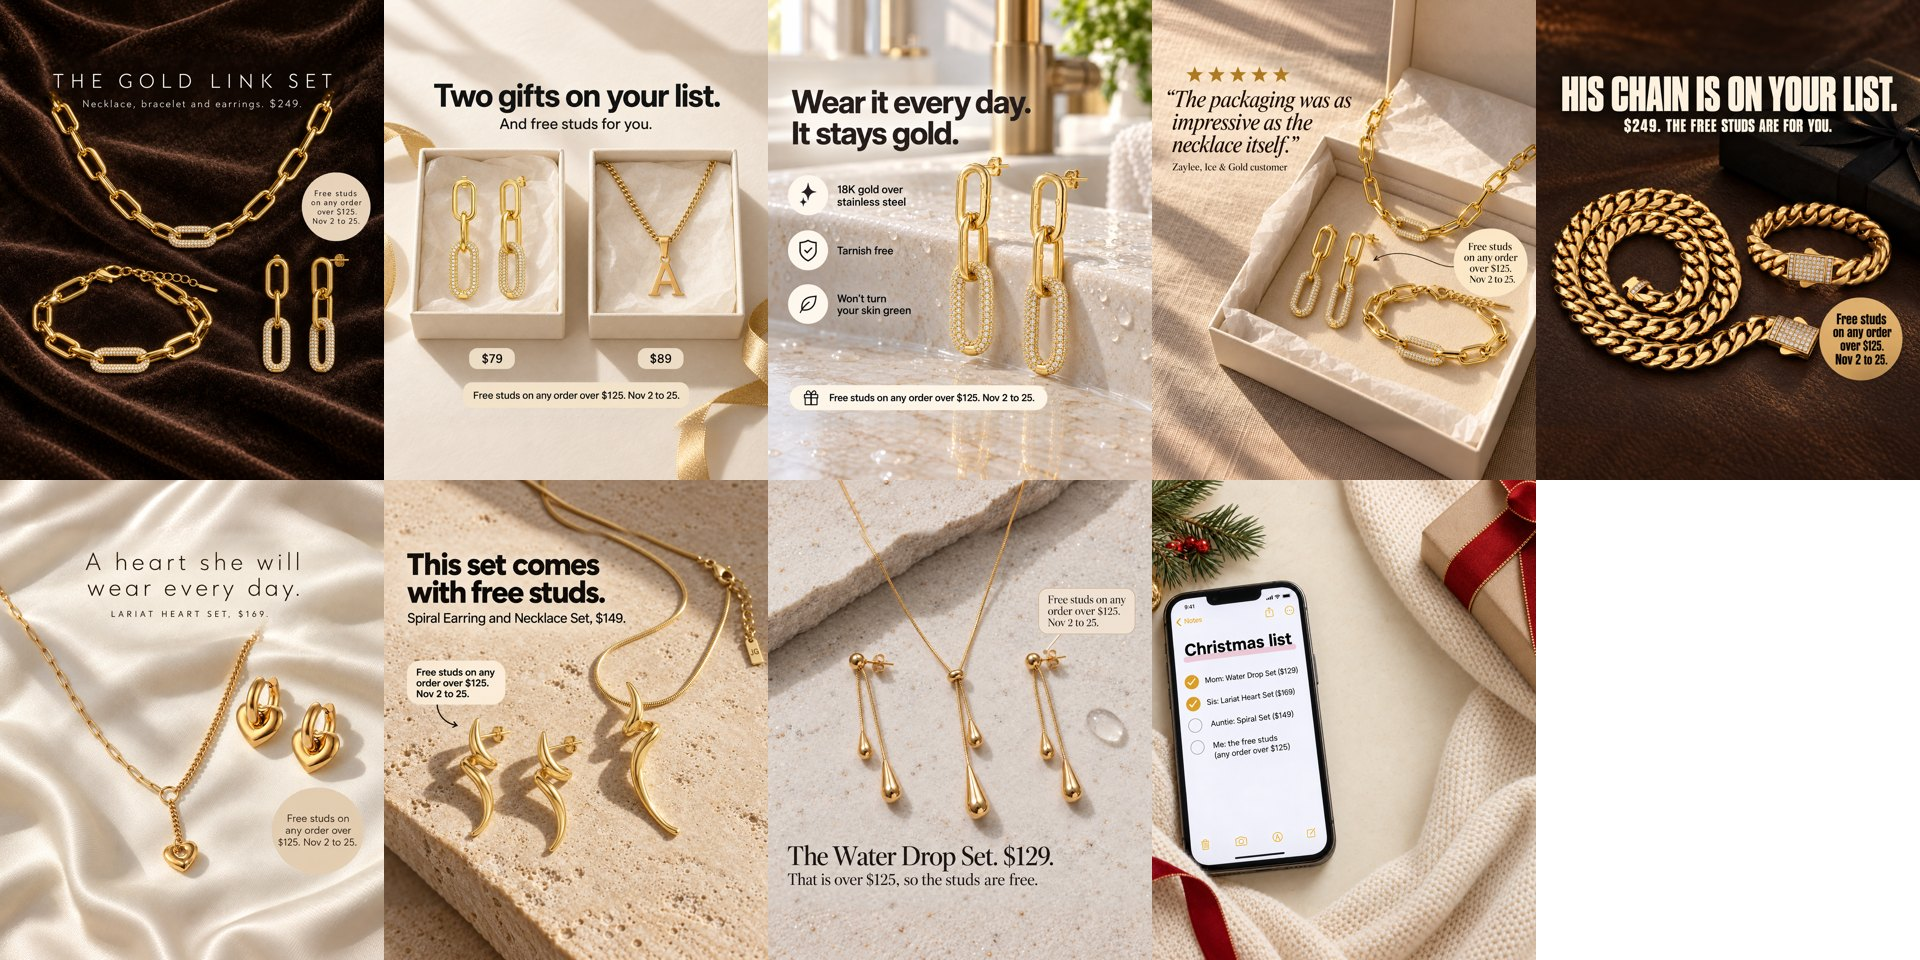
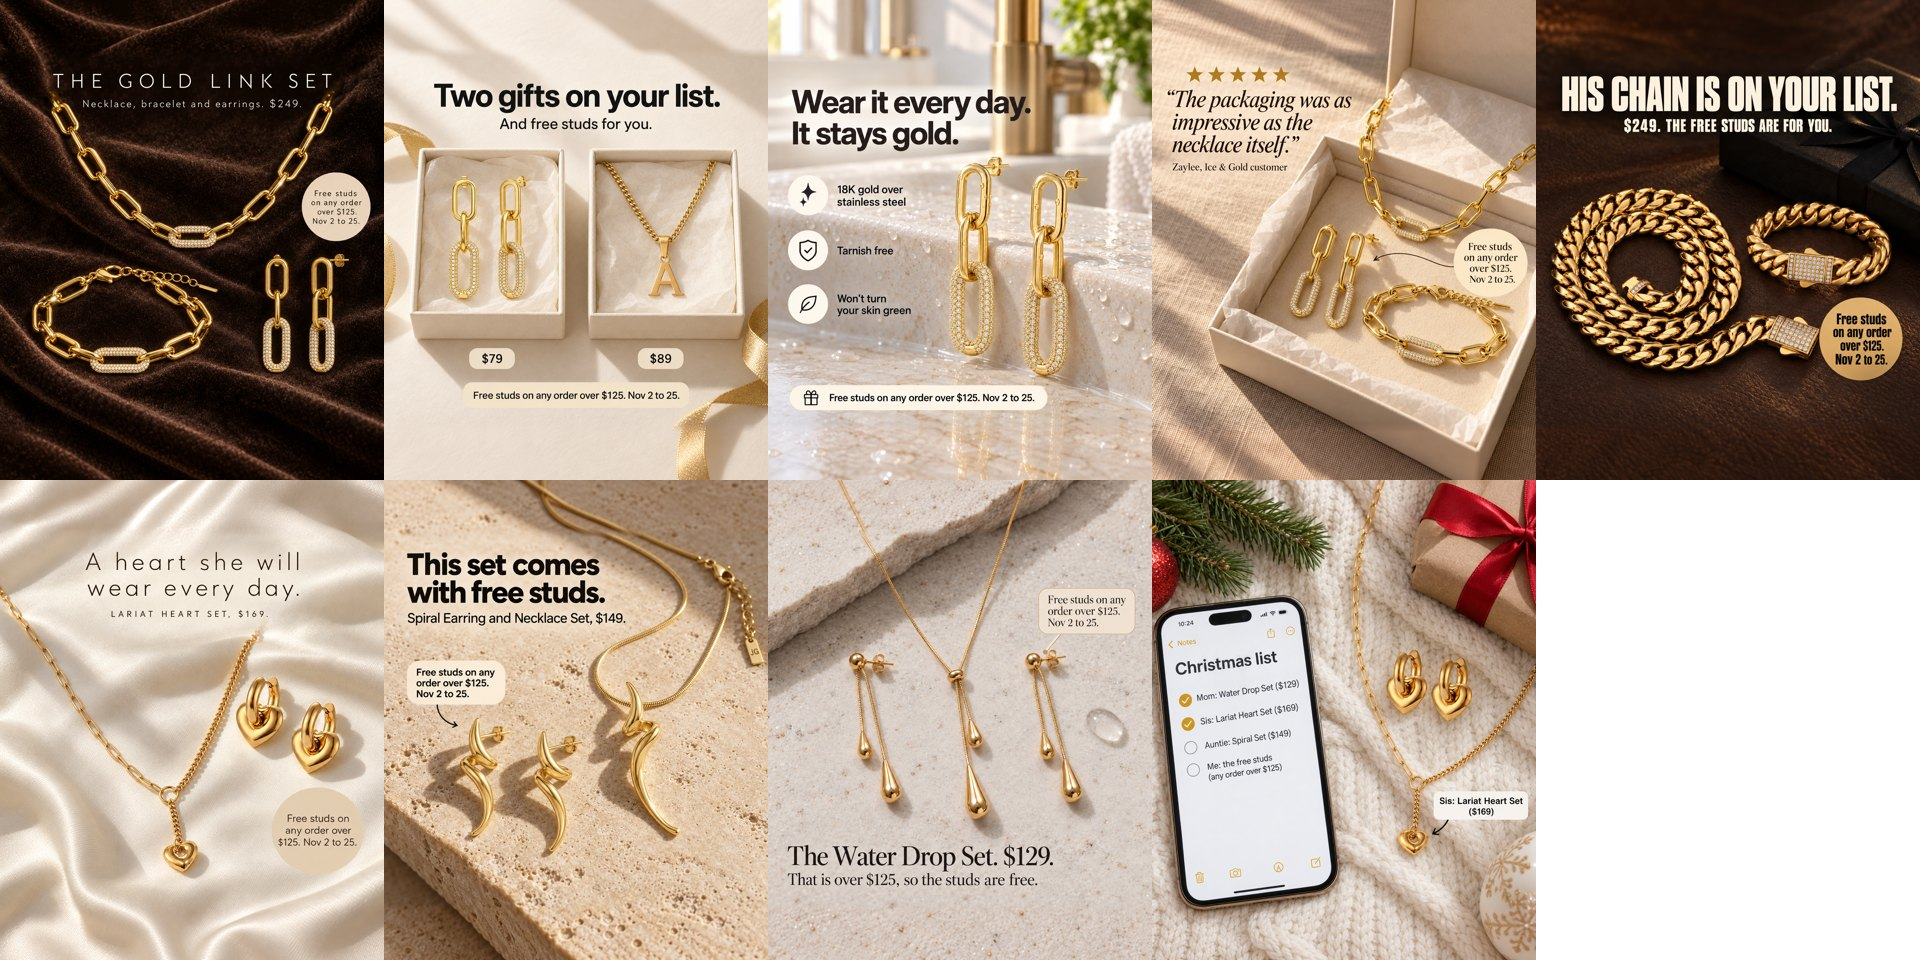
Ice & Gold Early Bird: iPhone ad redone with the real Lariat set; ads in Frame + Asana updated

Changed region(s): [[0.5938, 0.5, 0.8125, 1.0]]

diff --git a/docs/bfcm-ice-and-gold-concepts.md b/docs/bfcm-ice-and-gold-concepts.md
@@ -25,7 +25,7 @@ Locus Studio, all approved: "Early Bird AI: Gold Link, letters, Cuban" (0c9c72bb
 AI: Lariat, Spiral, Water Drop" (8fe8b9ef9eb72d71442d4ac1, 4 ads). Real Shopify photos as references + product
 fingerprints; Studio scored 9 to 10 of 10 on every product; checked by eye against the real pieces; two fixes with
 Change with AI (Cuban offer badge into the centre square; wrong jewelry removed from the Notes ad). About $3.80.
-Preview: docs/bfcm-ice-and-gold/ads/out/_sheet_ai.jpg. The earlier real-photo batch is archived. No list-building ads
+Preview: docs/bfcm-ice-and-gold/ads/out/_sheet_ai.jpg. **Where they live:** Locus > Creative > AI ads (Studio, Launch to Meta on each ad); Frame > Ice & Gold > Ad Concepts > "BFCM Early Bird - Free studs over $125 (Nov 2 to 25)" (EB-1 to EB-9, folder 165dd288-a0dd-4c3a-91af-3ef42b8628cc); Asana BFCM 2026 task 1219215692646595 (Briefs + Ads built ticked). Ahsan loads them by Oct 29. The earlier real-photo batch is archived. No list-building ads
 (Cole, Oct 14). The 5 creator video lines wait for creators (studs to them by about Oct 27).
 
 Sources: build calendar (docs/bfcm-ads-gameplan-2026-10-13.md), Locus Season (p_season_phase, brand_ice_and_gold),
